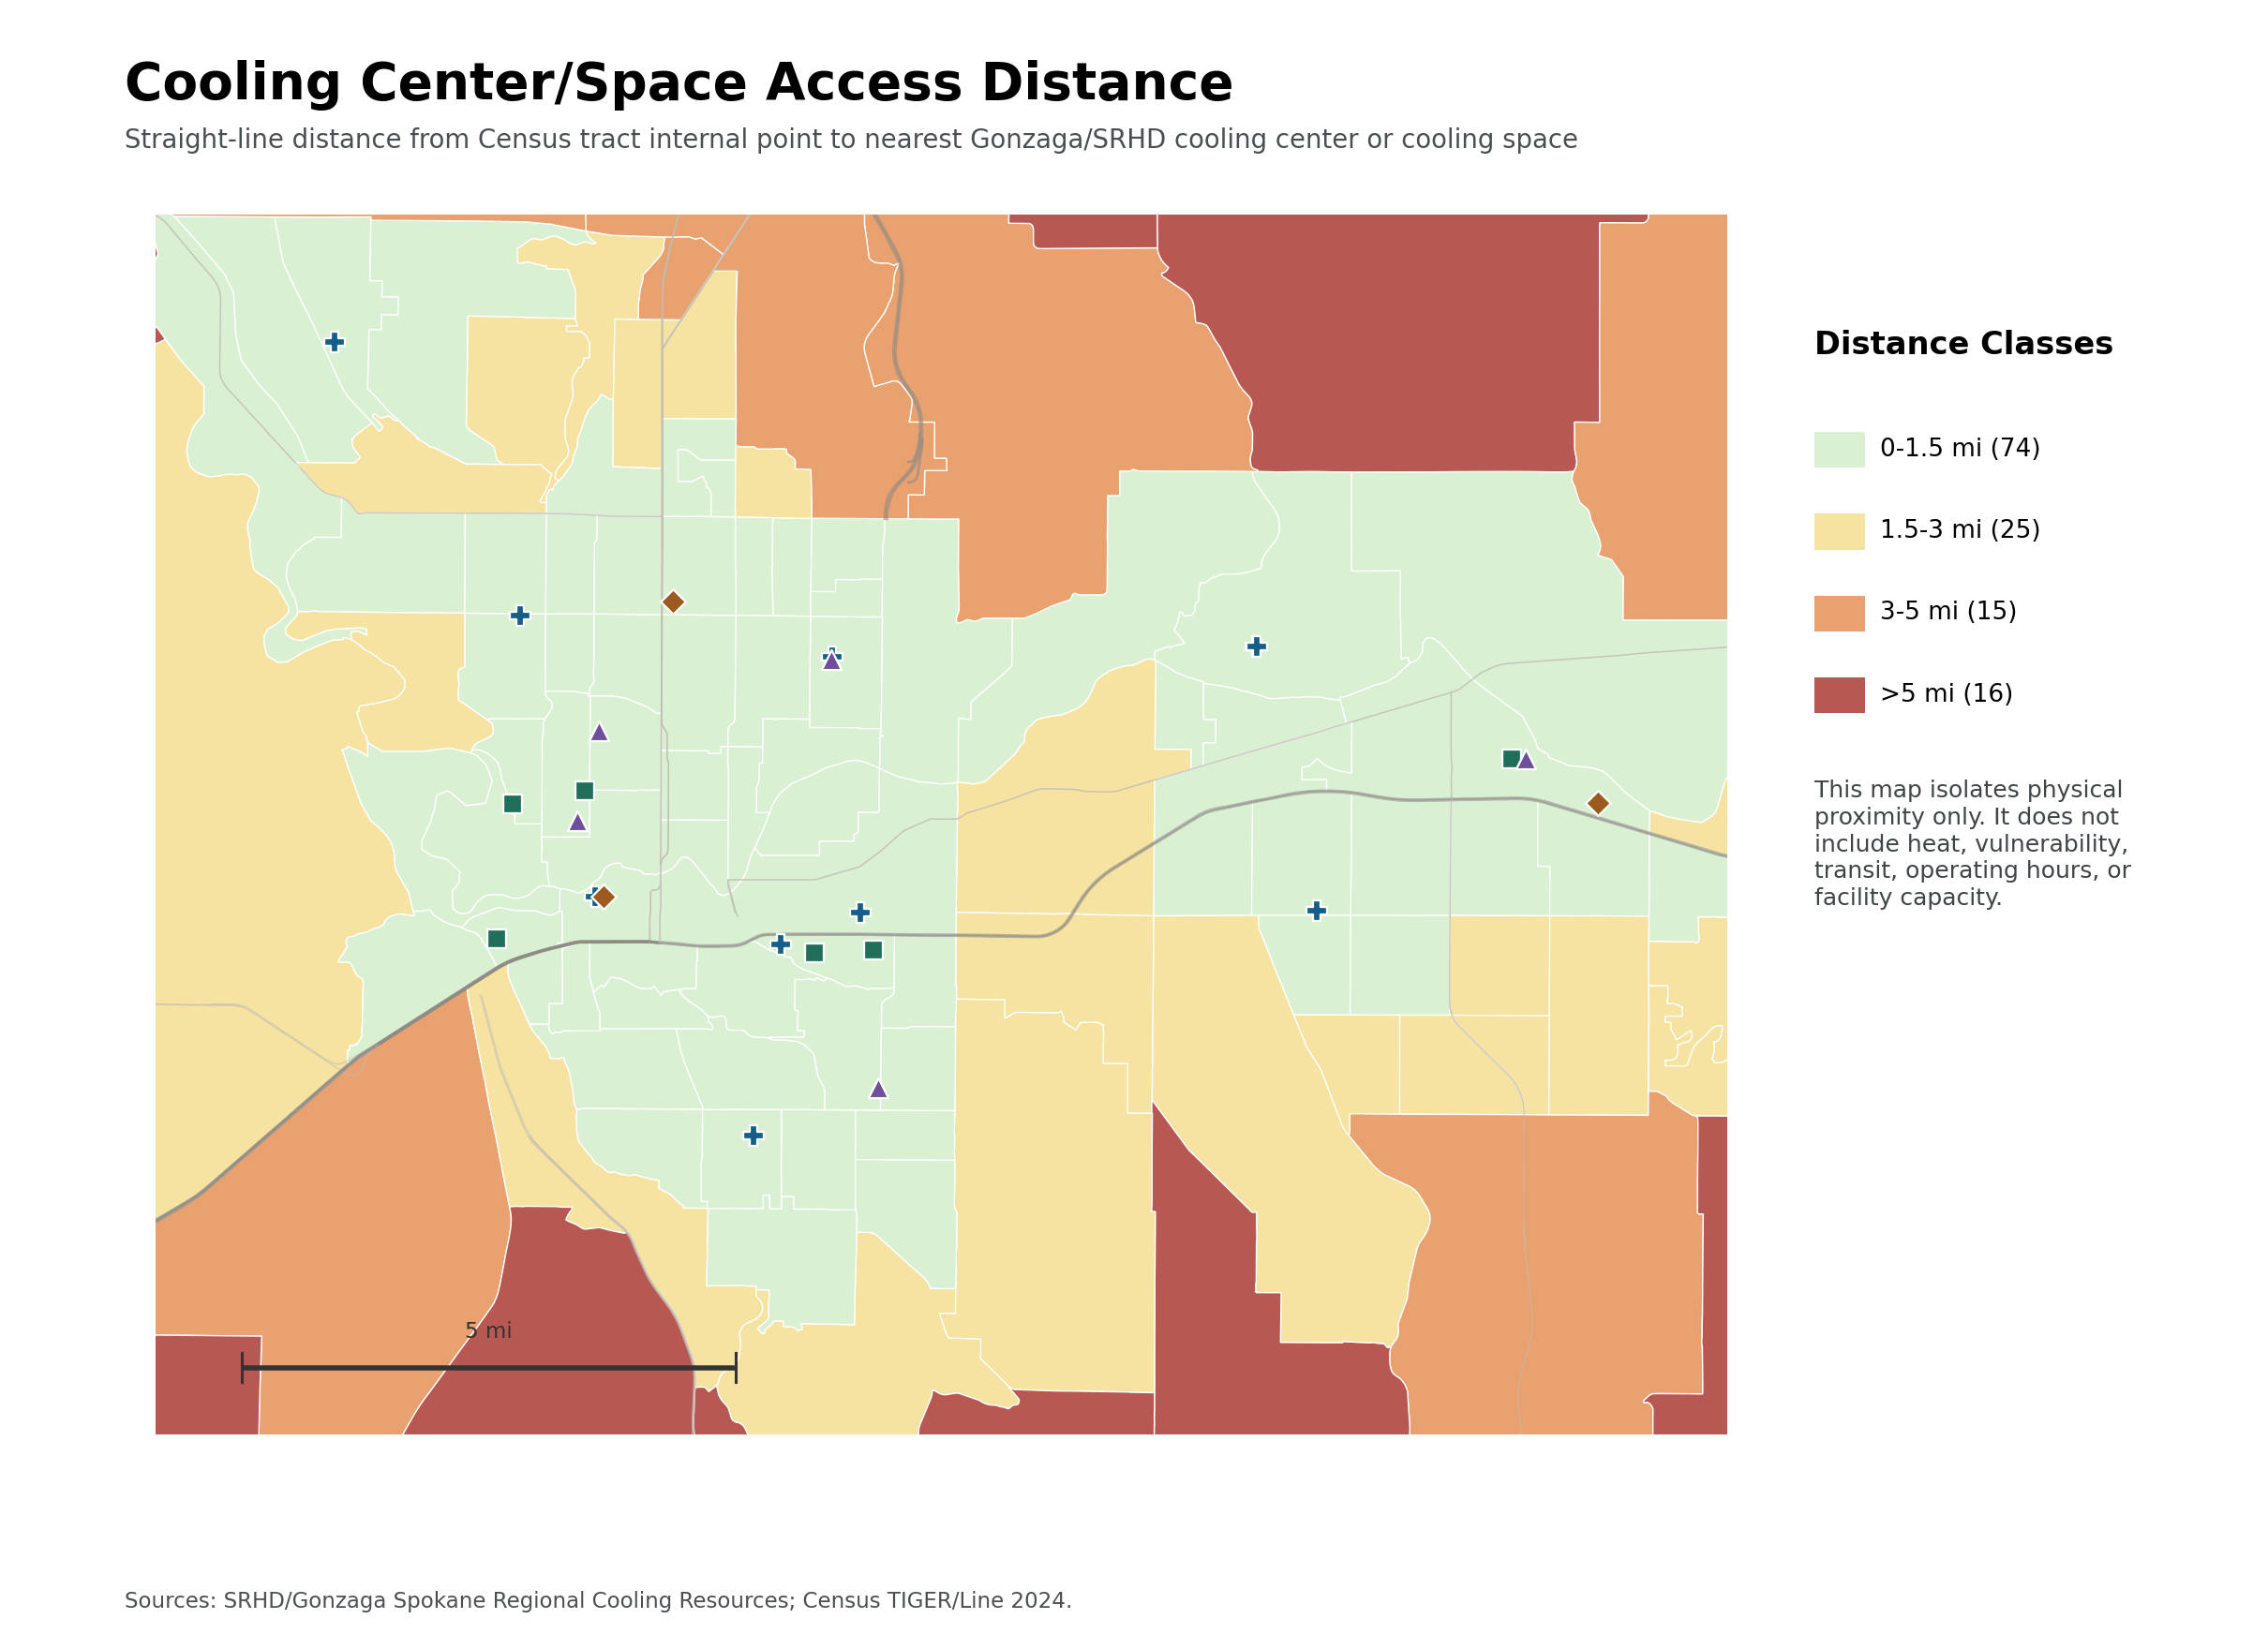
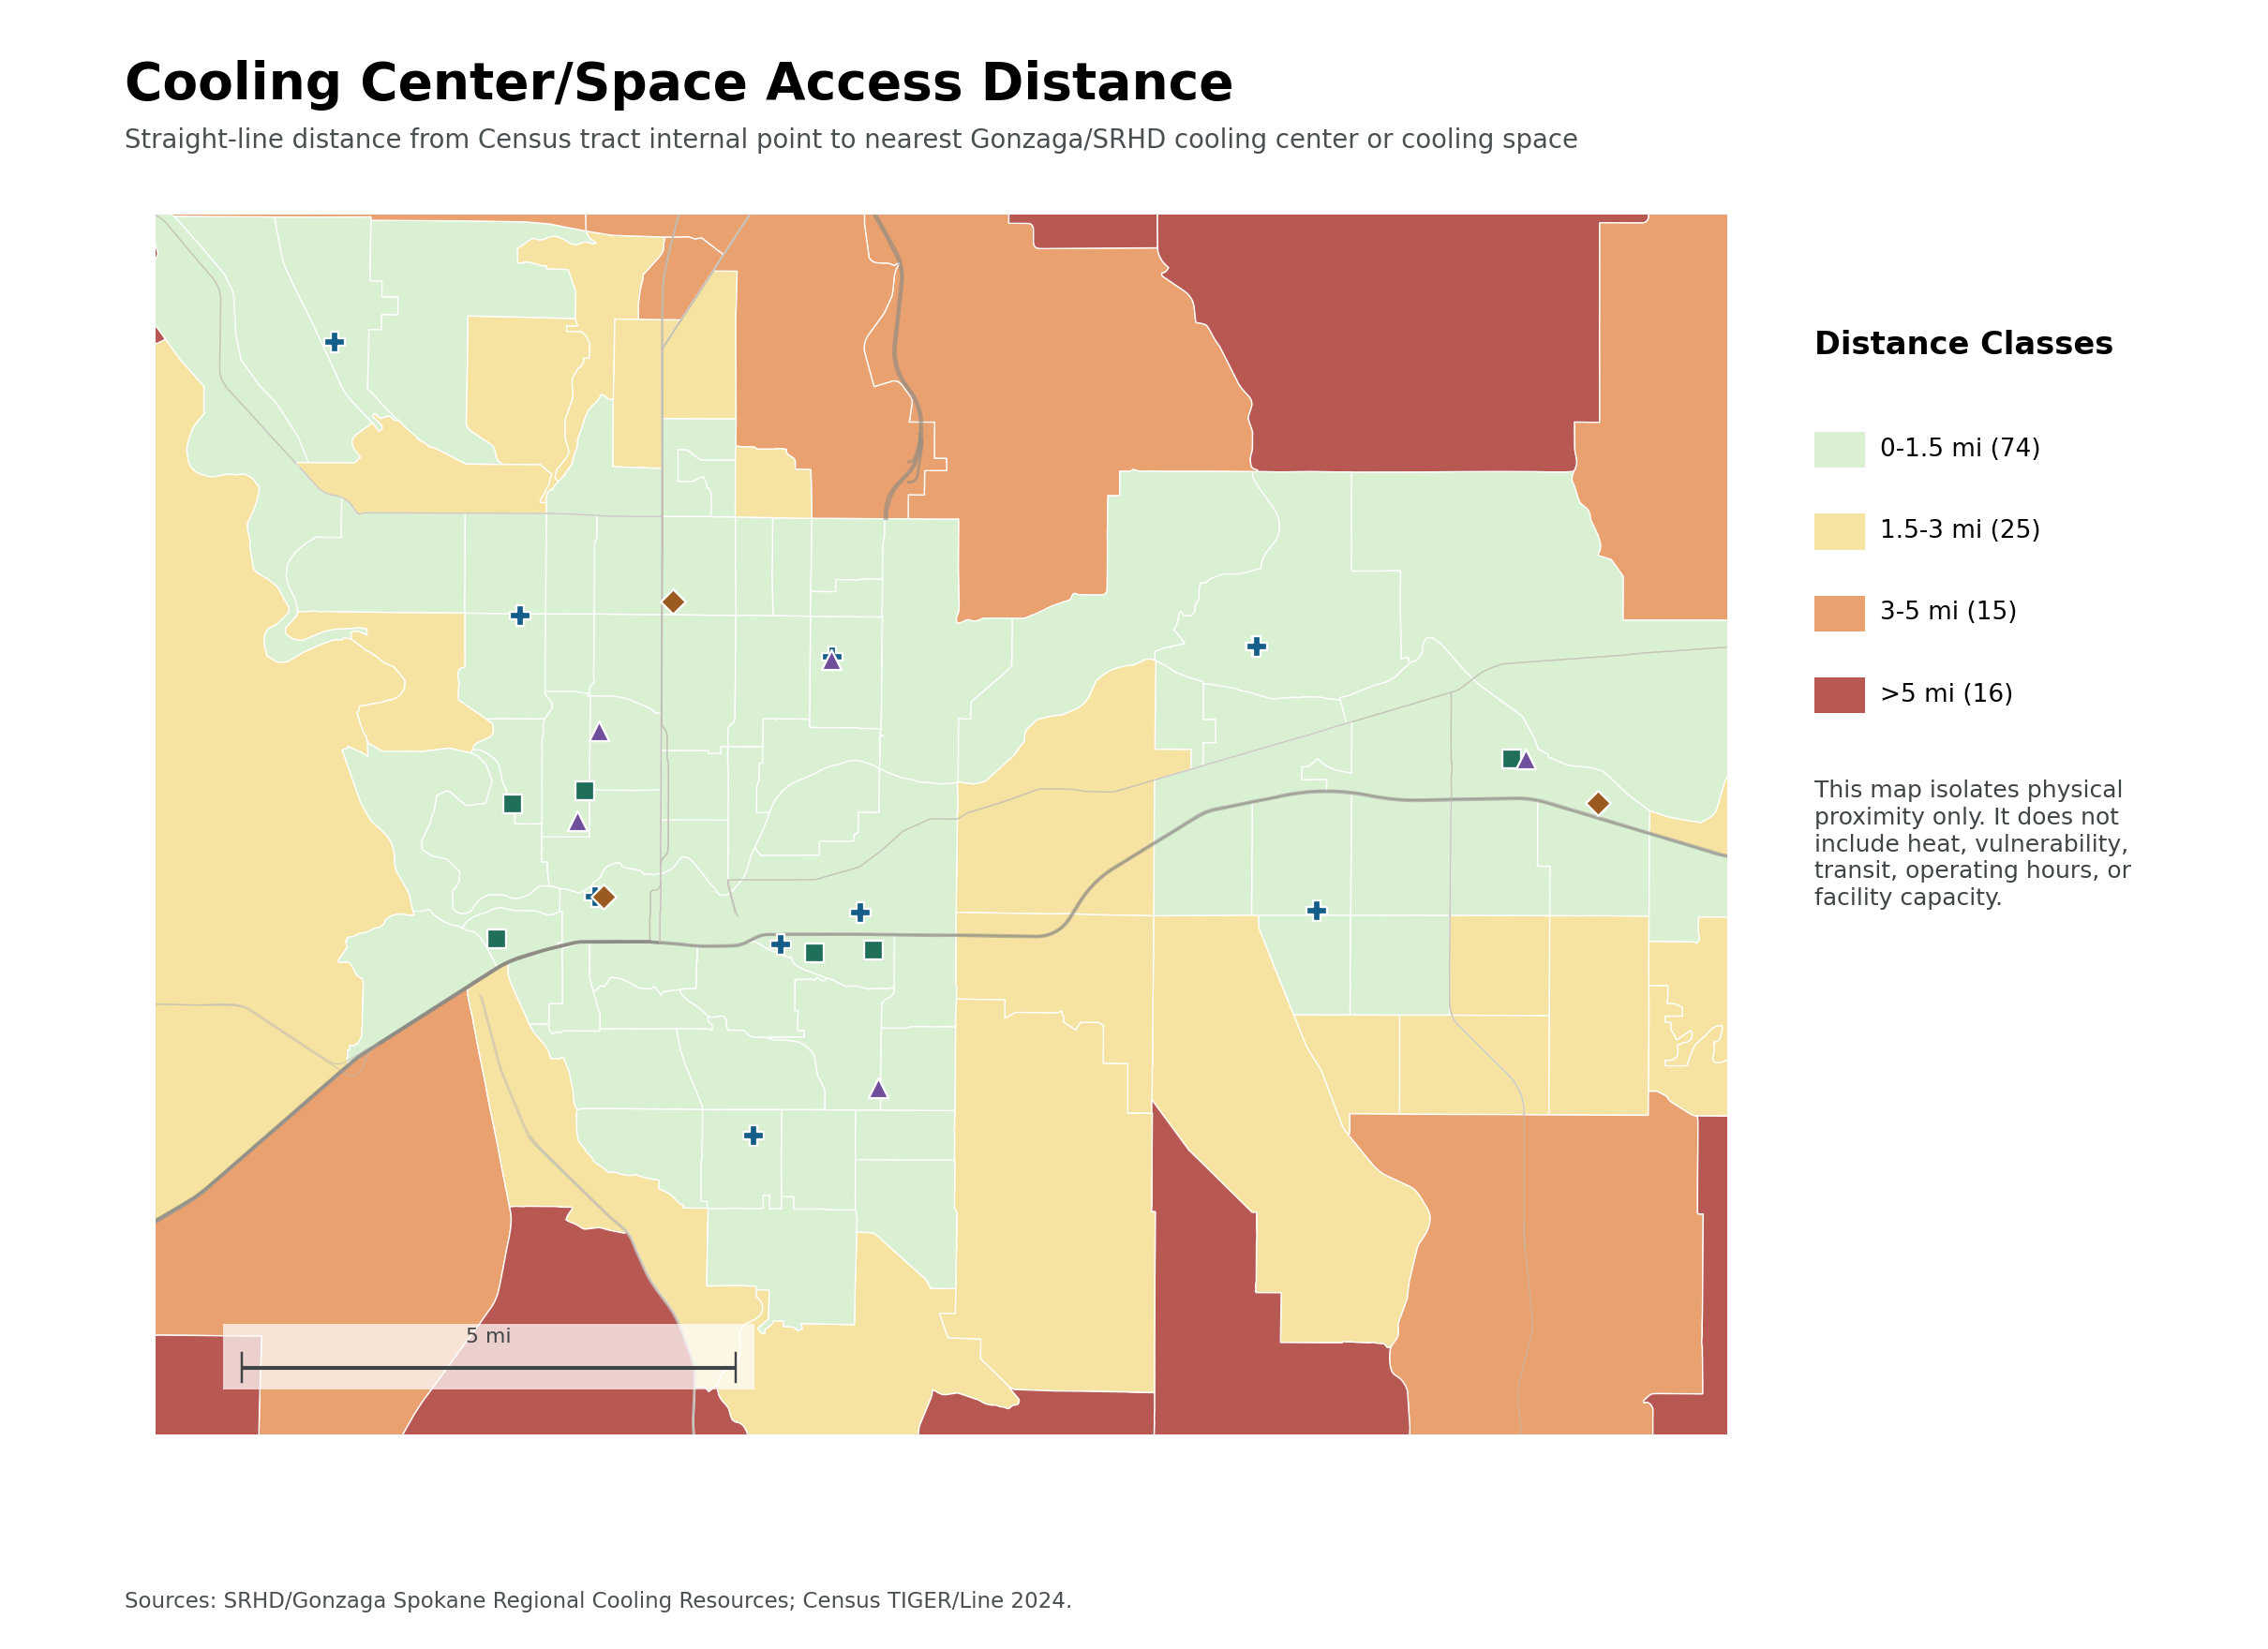
Highlight top tracts and refine map labels

Changed region(s): [[0.093, 0.7812, 0.3409, 0.8438]]

diff --git a/scripts/build_analysis.py b/scripts/build_analysis.py
@@ -62,6 +62,13 @@ PLACE_LABELS = [
     ("Liberty Lake", -117.1182, 47.6759),
 ]
 
+URBAN_LABELS = [
+    ("Downtown Spokane", -117.4235, 47.6588),
+    ("North Spokane", -117.421, 47.705),
+    ("Spokane Valley", -117.2394, 47.6732),
+    ("South Hill", -117.395, 47.628),
+]
+
 
 def ensure_dirs() -> None:
     for path in [
@@ -547,10 +554,23 @@ def draw_scale_bar(ax, miles: int = 5, *, location: tuple[float, float] = (0.06,
     start_x = x0 + (x1 - x0) * location[0]
     start_y = y0 + (y1 - y0) * location[1]
     tick = (y1 - y0) * 0.012
-    ax.plot([start_x, start_x + length], [start_y, start_y], color="#333333", linewidth=1.8, solid_capstyle="butt", zorder=20)
-    ax.plot([start_x, start_x], [start_y - tick, start_y + tick], color="#333333", linewidth=1.0, zorder=20)
-    ax.plot([start_x + length, start_x + length], [start_y - tick, start_y + tick], color="#333333", linewidth=1.0, zorder=20)
-    ax.text(start_x + length / 2, start_y + tick * 1.7, f"{miles} mi", ha="center", va="bottom", fontsize=7.5, color="#333333", zorder=20)
+    pad_x = (x1 - x0) * 0.012
+    pad_y = (y1 - y0) * 0.018
+    ax.add_patch(
+        patches.Rectangle(
+            (start_x - pad_x, start_y - pad_y),
+            length + pad_x * 2,
+            pad_y * 3.0,
+            facecolor="white",
+            edgecolor="none",
+            alpha=0.72,
+            zorder=19,
+        )
+    )
+    ax.plot([start_x, start_x + length], [start_y, start_y], color="#3f4447", linewidth=1.35, solid_capstyle="butt", zorder=20)
+    ax.plot([start_x, start_x], [start_y - tick, start_y + tick], color="#3f4447", linewidth=0.8, zorder=20)
+    ax.plot([start_x + length, start_x + length], [start_y - tick, start_y + tick], color="#3f4447", linewidth=0.8, zorder=20)
+    ax.text(start_x + length / 2, start_y + tick * 1.45, f"{miles} mi", ha="center", va="bottom", fontsize=7.2, color="#3f4447", zorder=20)
 
 
 def draw_north_arrow(ax) -> None:
@@ -643,11 +663,11 @@ def draw_layers(
         ax.scatter(
             supplemental_x,
             supplemental_y,
-            s=11 if detail else 7,
+            s=8 if detail else 5,
             c="#4fa7a0",
             edgecolors="white",
-            linewidths=0.25,
-            alpha=0.42 if detail else 0.28,
+            linewidths=0.18,
+            alpha=0.26 if detail else 0.18,
             zorder=5,
         )
         symbol_specs = {
@@ -691,6 +711,41 @@ def draw_layers(
     ax.axis("off")
 
 
+def draw_urban_labels(ax) -> None:
+    for name, lon, lat in URBAN_LABELS:
+        x, y = project_xy(lon, lat)
+        ax.text(
+            x,
+            y,
+            name,
+            fontsize=7.5,
+            color="#303437",
+            ha="center",
+            va="center",
+            zorder=24,
+            bbox={"boxstyle": "round,pad=0.14", "facecolor": "white", "edgecolor": "none", "alpha": 0.62},
+        )
+
+
+def draw_top_tract_outlines(ax, tracts_fc: Path, summary: pd.DataFrame) -> None:
+    top_geoids = set(summary.head(4)["GEOID"])
+    for geoid, geom in arcpy.da.SearchCursor(str(tracts_fc), ["GEOID", "SHAPE@"]):
+        if geoid not in top_geoids:
+            continue
+        for part in polygon_parts(geom):
+            ax.add_patch(
+                patches.Polygon(
+                    part,
+                    closed=True,
+                    fill=False,
+                    edgecolor="#3b2e2a",
+                    linewidth=1.25,
+                    alpha=0.92,
+                    zorder=22,
+                )
+            )
+
+
 def draw_callout_box(ax, title: str, body: str, y: float) -> None:
     ax.text(0, y, title, fontsize=9.2, weight="bold", color="#222222", ha="left", va="top")
     ax.text(0, y - 0.052, textwrap.fill(body, 44), fontsize=7.8, color="#3f4447", ha="left", va="top", linespacing=1.2)
@@ -714,6 +769,8 @@ def draw_map(
 
     draw_layers(main_ax, tracts_fc, county_fc, roads_fc, all_resources_fc, detail=True, labels=False)
     set_extent_from_wgs(main_ax, *urban_extent)
+    draw_top_tract_outlines(main_ax, tracts_fc, summary)
+    draw_urban_labels(main_ax)
     main_ax.set_title("Spokane Urban Core Detail", fontsize=12, weight="bold", loc="left", pad=5)
 
     draw_layers(county_ax, tracts_fc, county_fc, roads_fc, all_resources_fc, detail=False, labels=False, resources=False)
@@ -779,7 +836,7 @@ def draw_map(
         0,
         0.935,
         textwrap.fill(
-            "Highest-ranked tracts combine high heat-wave risk, social vulnerability, vehicle-access barriers, and cooling-center distance.",
+            "Highest-ranked tracts appear in outer urban and edge areas where vulnerability, vehicle-access barriers, and cooling-center distance overlap.",
             46,
         ),
         fontsize=8.0,
@@ -816,7 +873,7 @@ def draw_map(
     draw_callout_box(
         info_ax,
         "Score",
-        "H/S/V/A means heat, social vulnerability, vehicle-access barrier, and cooling access.",
+        "H/S/V/A: heat, social vulnerability, vehicle-access barrier, and cooling access.",
         y - 0.01,
     )
     draw_callout_box(